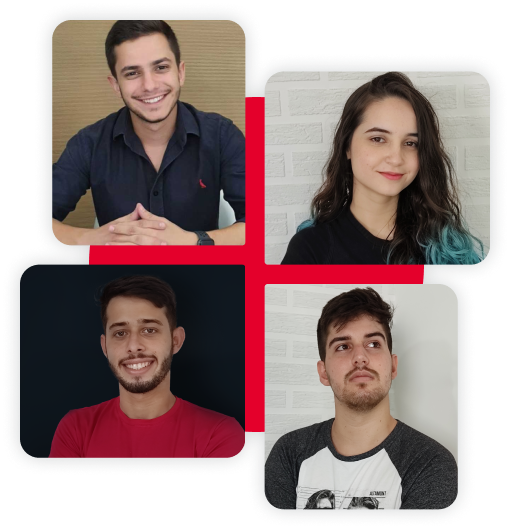
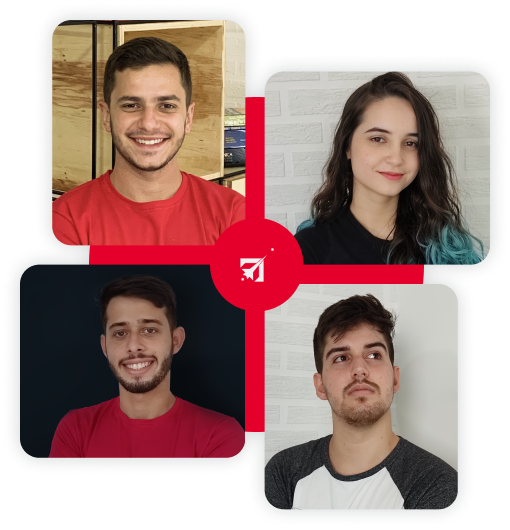
alterei a foto de emanuel

Changed region(s): [[0.0882, 0.0302, 0.6176, 0.6038], [0.5, 0.5434, 0.9118, 0.966]]

diff --git a/index.html b/index.html
@@ -116,7 +116,7 @@
             </div>
           </div>
           <div class="col-md" data-anime="right">
-            <img src="util/img/illustrations/fotos2.png" class="img-fluid">
+            <img src="util/img/illustrations/fotos.png" class="img-fluid">
           </div>
         </div>
       </div>

diff --git a/js/pixel.js b/js/pixel.js
@@ -9,7 +9,6 @@ linksNavbar.forEach(item => {
 });
 
 // VERIFICA CLICK BOTÃO NAVBAR
-
 document.querySelector("#botao-chamada-navbar").addEventListener('click', fbq('trackCustom', 'ClicouFalarEspecialista'));
 
 // VERIFICA CLICK EM BOTAO DE CHAMADA

diff --git a/css/style.css b/css/style.css
@@ -231,7 +231,7 @@
 }
 
 #telaQuemSomos img {
-	height: 55rem;
+	height: 45rem;
     float: right;
 }
 
